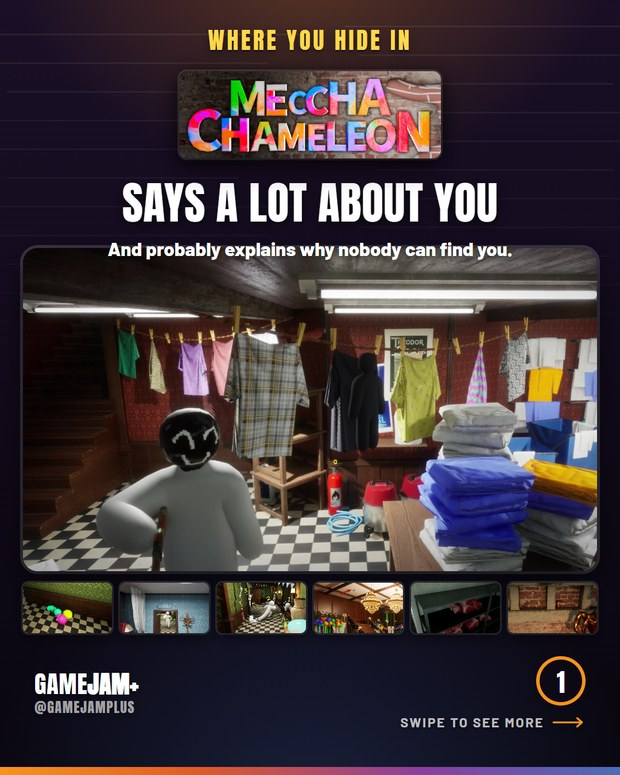
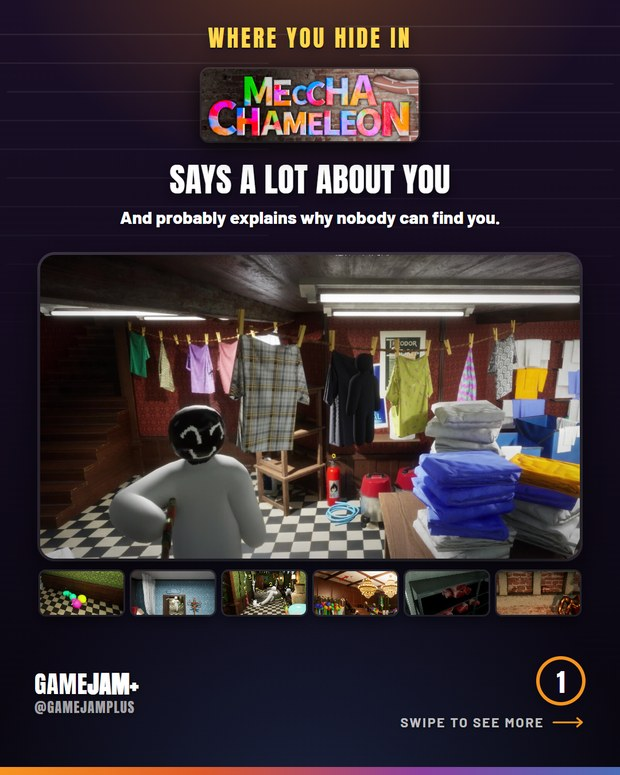
Meccha Chameleon: acerta o encaixe da capa
A linha de apoio encostava na foto porque o titulo da capa estava
entrando no ajuste automatico de largura, que e dos slides de conteudo,
e crescia ate 78px. A capa volta a ter corpo fixo, a logo e a foto
cederam um pouco e sobrou respiro entre o texto e a imagem.

diff --git a/index.html b/index.html
@@ -801,11 +801,11 @@ dialog img{width:min(92vw,620px);max-height:92dvh;object-fit:contain;border-radi
 <article class="c" data-cat="04-conteudos-memes-gj" data-lang="PT" data-busca="m02 - onde voce se esconde em meccha chameleon memes gj+" id="c184">
   <header><div><span class="tagcat">Memes GJ+</span><span class="taglang PT">PT</span><h2>M02 - Onde você se esconde em Meccha Chameleon</h2></div>
   <div class="nav"><button aria-label="Anterior" data-d="-1">←</button><button aria-label="Próximo" data-d="1">→</button><span class="cont">7</span></div></header>
-  <div class="strip"><figure><img src="img/04-conteudos-memes-gj-pt-m02-onde-voce-se-esconde-meccha-chameleon/slide_01.jpg?v=15" alt="M02 - Onde você se esconde em Meccha Chameleon 1" width="620" height="775" loading="lazy" decoding="async"><figcaption>01</figcaption></figure><figure><img src="img/04-conteudos-memes-gj-pt-m02-onde-voce-se-esconde-meccha-chameleon/slide_02.jpg?v=15" alt="M02 - Onde você se esconde em Meccha Chameleon 2" width="620" height="775" loading="lazy" decoding="async"><figcaption>02</figcaption></figure><figure><img src="img/04-conteudos-memes-gj-pt-m02-onde-voce-se-esconde-meccha-chameleon/slide_03.jpg?v=15" alt="M02 - Onde você se esconde em Meccha Chameleon 3" width="620" height="775" loading="lazy" decoding="async"><figcaption>03</figcaption></figure><figure><img src="img/04-conteudos-memes-gj-pt-m02-onde-voce-se-esconde-meccha-chameleon/slide_04.jpg?v=15" alt="M02 - Onde você se esconde em Meccha Chameleon 4" width="620" height="775" loading="lazy" decoding="async"><figcaption>04</figcaption></figure><figure><img src="img/04-conteudos-memes-gj-pt-m02-onde-voce-se-esconde-meccha-chameleon/slide_05.jpg?v=15" alt="M02 - Onde você se esconde em Meccha Chameleon 5" width="620" height="775" loading="lazy" decoding="async"><figcaption>05</figcaption></figure><figure><img src="img/04-conteudos-memes-gj-pt-m02-onde-voce-se-esconde-meccha-chameleon/slide_06.jpg?v=15" alt="M02 - Onde você se esconde em Meccha Chameleon 6" width="620" height="775" loading="lazy" decoding="async"><figcaption>06</figcaption></figure><figure><img src="img/04-conteudos-memes-gj-pt-m02-onde-voce-se-esconde-meccha-chameleon/slide_07.jpg?v=15" alt="M02 - Onde você se esconde em Meccha Chameleon 7" width="620" height="775" loading="lazy" decoding="async"><figcaption>07</figcaption></figure></div></article>
+  <div class="strip"><figure><img src="img/04-conteudos-memes-gj-pt-m02-onde-voce-se-esconde-meccha-chameleon/slide_01.jpg?v=16" alt="M02 - Onde você se esconde em Meccha Chameleon 1" width="620" height="775" loading="lazy" decoding="async"><figcaption>01</figcaption></figure><figure><img src="img/04-conteudos-memes-gj-pt-m02-onde-voce-se-esconde-meccha-chameleon/slide_02.jpg?v=16" alt="M02 - Onde você se esconde em Meccha Chameleon 2" width="620" height="775" loading="lazy" decoding="async"><figcaption>02</figcaption></figure><figure><img src="img/04-conteudos-memes-gj-pt-m02-onde-voce-se-esconde-meccha-chameleon/slide_03.jpg?v=16" alt="M02 - Onde você se esconde em Meccha Chameleon 3" width="620" height="775" loading="lazy" decoding="async"><figcaption>03</figcaption></figure><figure><img src="img/04-conteudos-memes-gj-pt-m02-onde-voce-se-esconde-meccha-chameleon/slide_04.jpg?v=16" alt="M02 - Onde você se esconde em Meccha Chameleon 4" width="620" height="775" loading="lazy" decoding="async"><figcaption>04</figcaption></figure><figure><img src="img/04-conteudos-memes-gj-pt-m02-onde-voce-se-esconde-meccha-chameleon/slide_05.jpg?v=16" alt="M02 - Onde você se esconde em Meccha Chameleon 5" width="620" height="775" loading="lazy" decoding="async"><figcaption>05</figcaption></figure><figure><img src="img/04-conteudos-memes-gj-pt-m02-onde-voce-se-esconde-meccha-chameleon/slide_06.jpg?v=16" alt="M02 - Onde você se esconde em Meccha Chameleon 6" width="620" height="775" loading="lazy" decoding="async"><figcaption>06</figcaption></figure><figure><img src="img/04-conteudos-memes-gj-pt-m02-onde-voce-se-esconde-meccha-chameleon/slide_07.jpg?v=16" alt="M02 - Onde você se esconde em Meccha Chameleon 7" width="620" height="775" loading="lazy" decoding="async"><figcaption>07</figcaption></figure></div></article>
 <article class="c" data-cat="04-conteudos-memes-gj" data-lang="EN" data-busca="m02 - where you hide in meccha chameleon memes gj+" id="c185">
   <header><div><span class="tagcat">Memes GJ+</span><span class="taglang EN">EN</span><h2>M02 - Where you hide in Meccha Chameleon</h2></div>
   <div class="nav"><button aria-label="Anterior" data-d="-1">←</button><button aria-label="Próximo" data-d="1">→</button><span class="cont">7</span></div></header>
-  <div class="strip"><figure><img src="img/04-conteudos-memes-gj-en-m02-where-you-hide-meccha-chameleon/slide_01.jpg?v=15" alt="M02 - Where you hide in Meccha Chameleon 1" width="620" height="775" loading="lazy" decoding="async"><figcaption>01</figcaption></figure><figure><img src="img/04-conteudos-memes-gj-en-m02-where-you-hide-meccha-chameleon/slide_02.jpg?v=15" alt="M02 - Where you hide in Meccha Chameleon 2" width="620" height="775" loading="lazy" decoding="async"><figcaption>02</figcaption></figure><figure><img src="img/04-conteudos-memes-gj-en-m02-where-you-hide-meccha-chameleon/slide_03.jpg?v=15" alt="M02 - Where you hide in Meccha Chameleon 3" width="620" height="775" loading="lazy" decoding="async"><figcaption>03</figcaption></figure><figure><img src="img/04-conteudos-memes-gj-en-m02-where-you-hide-meccha-chameleon/slide_04.jpg?v=15" alt="M02 - Where you hide in Meccha Chameleon 4" width="620" height="775" loading="lazy" decoding="async"><figcaption>04</figcaption></figure><figure><img src="img/04-conteudos-memes-gj-en-m02-where-you-hide-meccha-chameleon/slide_05.jpg?v=15" alt="M02 - Where you hide in Meccha Chameleon 5" width="620" height="775" loading="lazy" decoding="async"><figcaption>05</figcaption></figure><figure><img src="img/04-conteudos-memes-gj-en-m02-where-you-hide-meccha-chameleon/slide_06.jpg?v=15" alt="M02 - Where you hide in Meccha Chameleon 6" width="620" height="775" loading="lazy" decoding="async"><figcaption>06</figcaption></figure><figure><img src="img/04-conteudos-memes-gj-en-m02-where-you-hide-meccha-chameleon/slide_07.jpg?v=15" alt="M02 - Where you hide in Meccha Chameleon 7" width="620" height="775" loading="lazy" decoding="async"><figcaption>07</figcaption></figure></div></article>
+  <div class="strip"><figure><img src="img/04-conteudos-memes-gj-en-m02-where-you-hide-meccha-chameleon/slide_01.jpg?v=16" alt="M02 - Where you hide in Meccha Chameleon 1" width="620" height="775" loading="lazy" decoding="async"><figcaption>01</figcaption></figure><figure><img src="img/04-conteudos-memes-gj-en-m02-where-you-hide-meccha-chameleon/slide_02.jpg?v=16" alt="M02 - Where you hide in Meccha Chameleon 2" width="620" height="775" loading="lazy" decoding="async"><figcaption>02</figcaption></figure><figure><img src="img/04-conteudos-memes-gj-en-m02-where-you-hide-meccha-chameleon/slide_03.jpg?v=16" alt="M02 - Where you hide in Meccha Chameleon 3" width="620" height="775" loading="lazy" decoding="async"><figcaption>03</figcaption></figure><figure><img src="img/04-conteudos-memes-gj-en-m02-where-you-hide-meccha-chameleon/slide_04.jpg?v=16" alt="M02 - Where you hide in Meccha Chameleon 4" width="620" height="775" loading="lazy" decoding="async"><figcaption>04</figcaption></figure><figure><img src="img/04-conteudos-memes-gj-en-m02-where-you-hide-meccha-chameleon/slide_05.jpg?v=16" alt="M02 - Where you hide in Meccha Chameleon 5" width="620" height="775" loading="lazy" decoding="async"><figcaption>05</figcaption></figure><figure><img src="img/04-conteudos-memes-gj-en-m02-where-you-hide-meccha-chameleon/slide_06.jpg?v=16" alt="M02 - Where you hide in Meccha Chameleon 6" width="620" height="775" loading="lazy" decoding="async"><figcaption>06</figcaption></figure><figure><img src="img/04-conteudos-memes-gj-en-m02-where-you-hide-meccha-chameleon/slide_07.jpg?v=16" alt="M02 - Where you hide in Meccha Chameleon 7" width="620" height="775" loading="lazy" decoding="async"><figcaption>07</figcaption></figure></div></article>
 <p class="vazio" id="vazio" hidden>Nenhum carrossel com esse filtro.</p></main>
 <dialog id="lb"><img id="lbimg" alt=""><div class="dnav"><button id="prev" aria-label="Anterior">←</button><button id="next" aria-label="Próximo">→</button></div><p class="dcap" id="lbcap"></p></dialog>
 <script>
